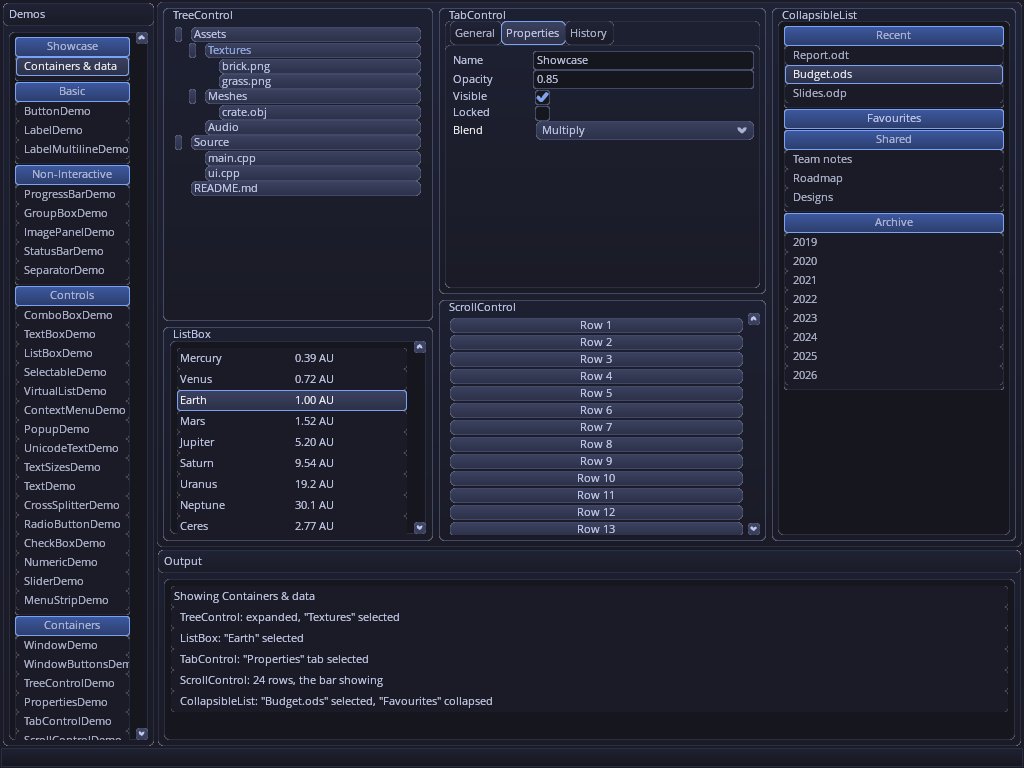
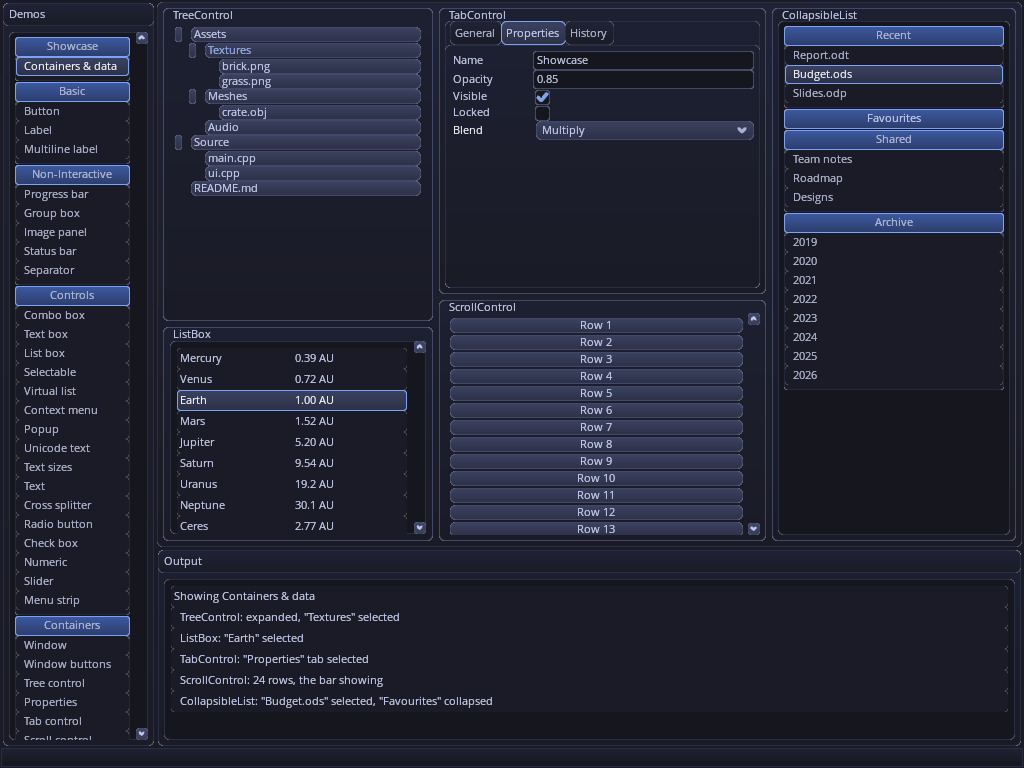
Demo: a short display label for every shell page, no "Demo" suffix
Every non-showcase addDemo call in Demo::init now passes a label in the
style of "Containers & data" ("Button", "Multiline label", "Window
buttons", ...), so no entry of the demo list is clipped: the README
hero showed "WindowButtonsDemo" as "WindowButtonsDem", and
"LabelMultilineDemo" and "ContextMenuDemo" ended at the list's edge.
The keys are the class names as before, so --demo, HERO_DEMO,
ControlTest --list/--control and getDemoNames() are unchanged
(ControlTest --list is byte-identical).

docs/images/demo.png is regenerated; it differs only inside the list.

diff --git a/examples/demo/demo.cpp b/examples/demo/demo.cpp
@@ -117,59 +117,59 @@ void Demo::init(const String &name)
         controls::CollapsibleCategory *cat=list->add("Basic");
 
         cat->setName("Basic");
-        addDemo<ButtonDemo>(cat, "ButtonDemo");
-        addDemo<LabelDemo>(cat, "LabelDemo");
-        addDemo<LabelMultilineDemo>(cat, "LabelMultilineDemo");
+        addDemo<ButtonDemo>(cat, "ButtonDemo", "Button");
+        addDemo<LabelDemo>(cat, "LabelDemo", "Label");
+        addDemo<LabelMultilineDemo>(cat, "LabelMultilineDemo", "Multiline label");
     }
     {
         controls::CollapsibleCategory *cat=list->add("Non-Interactive");
         cat->setName("Non-Interactive");
 
-        addDemo<ProgressBarDemo>(cat, "ProgressBarDemo");
-        addDemo<GroupBoxDemo>(cat, "GroupBoxDemo");
-        addDemo<ImagePanelDemo>(cat, "ImagePanelDemo");
-        addDemo<StatusBarDemo>(cat, "StatusBarDemo");
-        addDemo<SeparatorDemo>(cat, "SeparatorDemo");
+        addDemo<ProgressBarDemo>(cat, "ProgressBarDemo", "Progress bar");
+        addDemo<GroupBoxDemo>(cat, "GroupBoxDemo", "Group box");
+        addDemo<ImagePanelDemo>(cat, "ImagePanelDemo", "Image panel");
+        addDemo<StatusBarDemo>(cat, "StatusBarDemo", "Status bar");
+        addDemo<SeparatorDemo>(cat, "SeparatorDemo", "Separator");
     }
     {
         controls::CollapsibleCategory *cat=list->add("Controls");
         cat->setName("Controls");
 
-        addDemo<ComboBoxDemo>(cat, "ComboBoxDemo");
-        addDemo<TextBoxDemo>(cat, "TextBoxDemo");
-        addDemo<ListBoxDemo>(cat, "ListBoxDemo");
-        addDemo<SelectableDemo>(cat, "SelectableDemo");
-        addDemo<VirtualListDemo>(cat, "VirtualListDemo");
-        addDemo<ContextMenuDemo>(cat, "ContextMenuDemo");
-        addDemo<PopupDemo>(cat, "PopupDemo");
-        addDemo<UnicodeTextDemo>(cat, "UnicodeTextDemo");
-        addDemo<TextSizesDemo>(cat, "TextSizesDemo");
-        addDemo<TextDemo>(cat, "TextDemo");
-        addDemo<CrossSplitterDemo>(cat, "CrossSplitterDemo");
-        addDemo<RadioButtonDemo>(cat, "RadioButtonDemo");
-        addDemo<CheckBoxDemo>(cat, "CheckBoxDemo");
-        addDemo<NumericDemo>(cat, "NumericDemo");
-        addDemo<SliderDemo>(cat, "SliderDemo");
-        addDemo<MenuStripDemo>(cat, "MenuStripDemo");
+        addDemo<ComboBoxDemo>(cat, "ComboBoxDemo", "Combo box");
+        addDemo<TextBoxDemo>(cat, "TextBoxDemo", "Text box");
+        addDemo<ListBoxDemo>(cat, "ListBoxDemo", "List box");
+        addDemo<SelectableDemo>(cat, "SelectableDemo", "Selectable");
+        addDemo<VirtualListDemo>(cat, "VirtualListDemo", "Virtual list");
+        addDemo<ContextMenuDemo>(cat, "ContextMenuDemo", "Context menu");
+        addDemo<PopupDemo>(cat, "PopupDemo", "Popup");
+        addDemo<UnicodeTextDemo>(cat, "UnicodeTextDemo", "Unicode text");
+        addDemo<TextSizesDemo>(cat, "TextSizesDemo", "Text sizes");
+        addDemo<TextDemo>(cat, "TextDemo", "Text");
+        addDemo<CrossSplitterDemo>(cat, "CrossSplitterDemo", "Cross splitter");
+        addDemo<RadioButtonDemo>(cat, "RadioButtonDemo", "Radio button");
+        addDemo<CheckBoxDemo>(cat, "CheckBoxDemo", "Check box");
+        addDemo<NumericDemo>(cat, "NumericDemo", "Numeric");
+        addDemo<SliderDemo>(cat, "SliderDemo", "Slider");
+        addDemo<MenuStripDemo>(cat, "MenuStripDemo", "Menu strip");
     }
     {
         controls::CollapsibleCategory *cat=list->add("Containers");
         cat->setName("Containers");
 
-        addDemo<WindowDemo>(cat, "WindowDemo");
-        addDemo<WindowButtonsDemo>(cat, "WindowButtonsDemo");
-        addDemo<TreeControlDemo>(cat, "TreeControlDemo");
-        addDemo<PropertiesDemo>(cat, "PropertiesDemo");
-        addDemo<TabControlDemo>(cat, "TabControlDemo");
-        addDemo<ScrollControlDemo>(cat, "ScrollControlDemo");
-        addDemo<PageControlDemo>(cat, "PageControlDemo");
+        addDemo<WindowDemo>(cat, "WindowDemo", "Window");
+        addDemo<WindowButtonsDemo>(cat, "WindowButtonsDemo", "Window buttons");
+        addDemo<TreeControlDemo>(cat, "TreeControlDemo", "Tree control");
+        addDemo<PropertiesDemo>(cat, "PropertiesDemo", "Properties");
+        addDemo<TabControlDemo>(cat, "TabControlDemo", "Tab control");
+        addDemo<ScrollControlDemo>(cat, "ScrollControlDemo", "Scroll control");
+        addDemo<PageControlDemo>(cat, "PageControlDemo", "Page control");
     }
     {
         controls::CollapsibleCategory *cat=list->add("Non-Standard");
         cat->setName("Non-Standard");
 
-        addDemo<CollapsibleListDemo>(cat, "CollapsibleListDemo");
-        addDemo<ColorPickerDemo>(cat, "ColorPickerDemo");
+        addDemo<CollapsibleListDemo>(cat, "CollapsibleListDemo", "Collapsible list");
+        addDemo<ColorPickerDemo>(cat, "ColorPickerDemo", "Color picker");
     }
 //
 //    m_statusBar->sendToBack();

diff --git a/examples/demo/demo.h b/examples/demo/demo.h
@@ -41,8 +41,10 @@ public:
     //! Add the page of \a _Type, with an entry in \a category of the demo list.
     //! \a name is the page's key, its class name: what --demo, HERO_DEMO in
     //! tools/capture_samples.sh and ControlTest's list use. \a label is what the
-    //! list entry and the Output pane show (the key if empty). A Showcase page
-    //! gets a short label, since its category header already says "Showcase".
+    //! list entry and the Output pane show (the key if empty). Every page in
+    //! Demo::init gets a short label with no "Demo" suffix ("Window buttons"),
+    //! since the list is the demo list and its category headers group the
+    //! pages, and a class name is too wide for the list's rows.
     template<typename _Type>
     void addDemo(controls::CollapsibleCategory *category, const std::string &name,
         const std::string &label=std::string());
